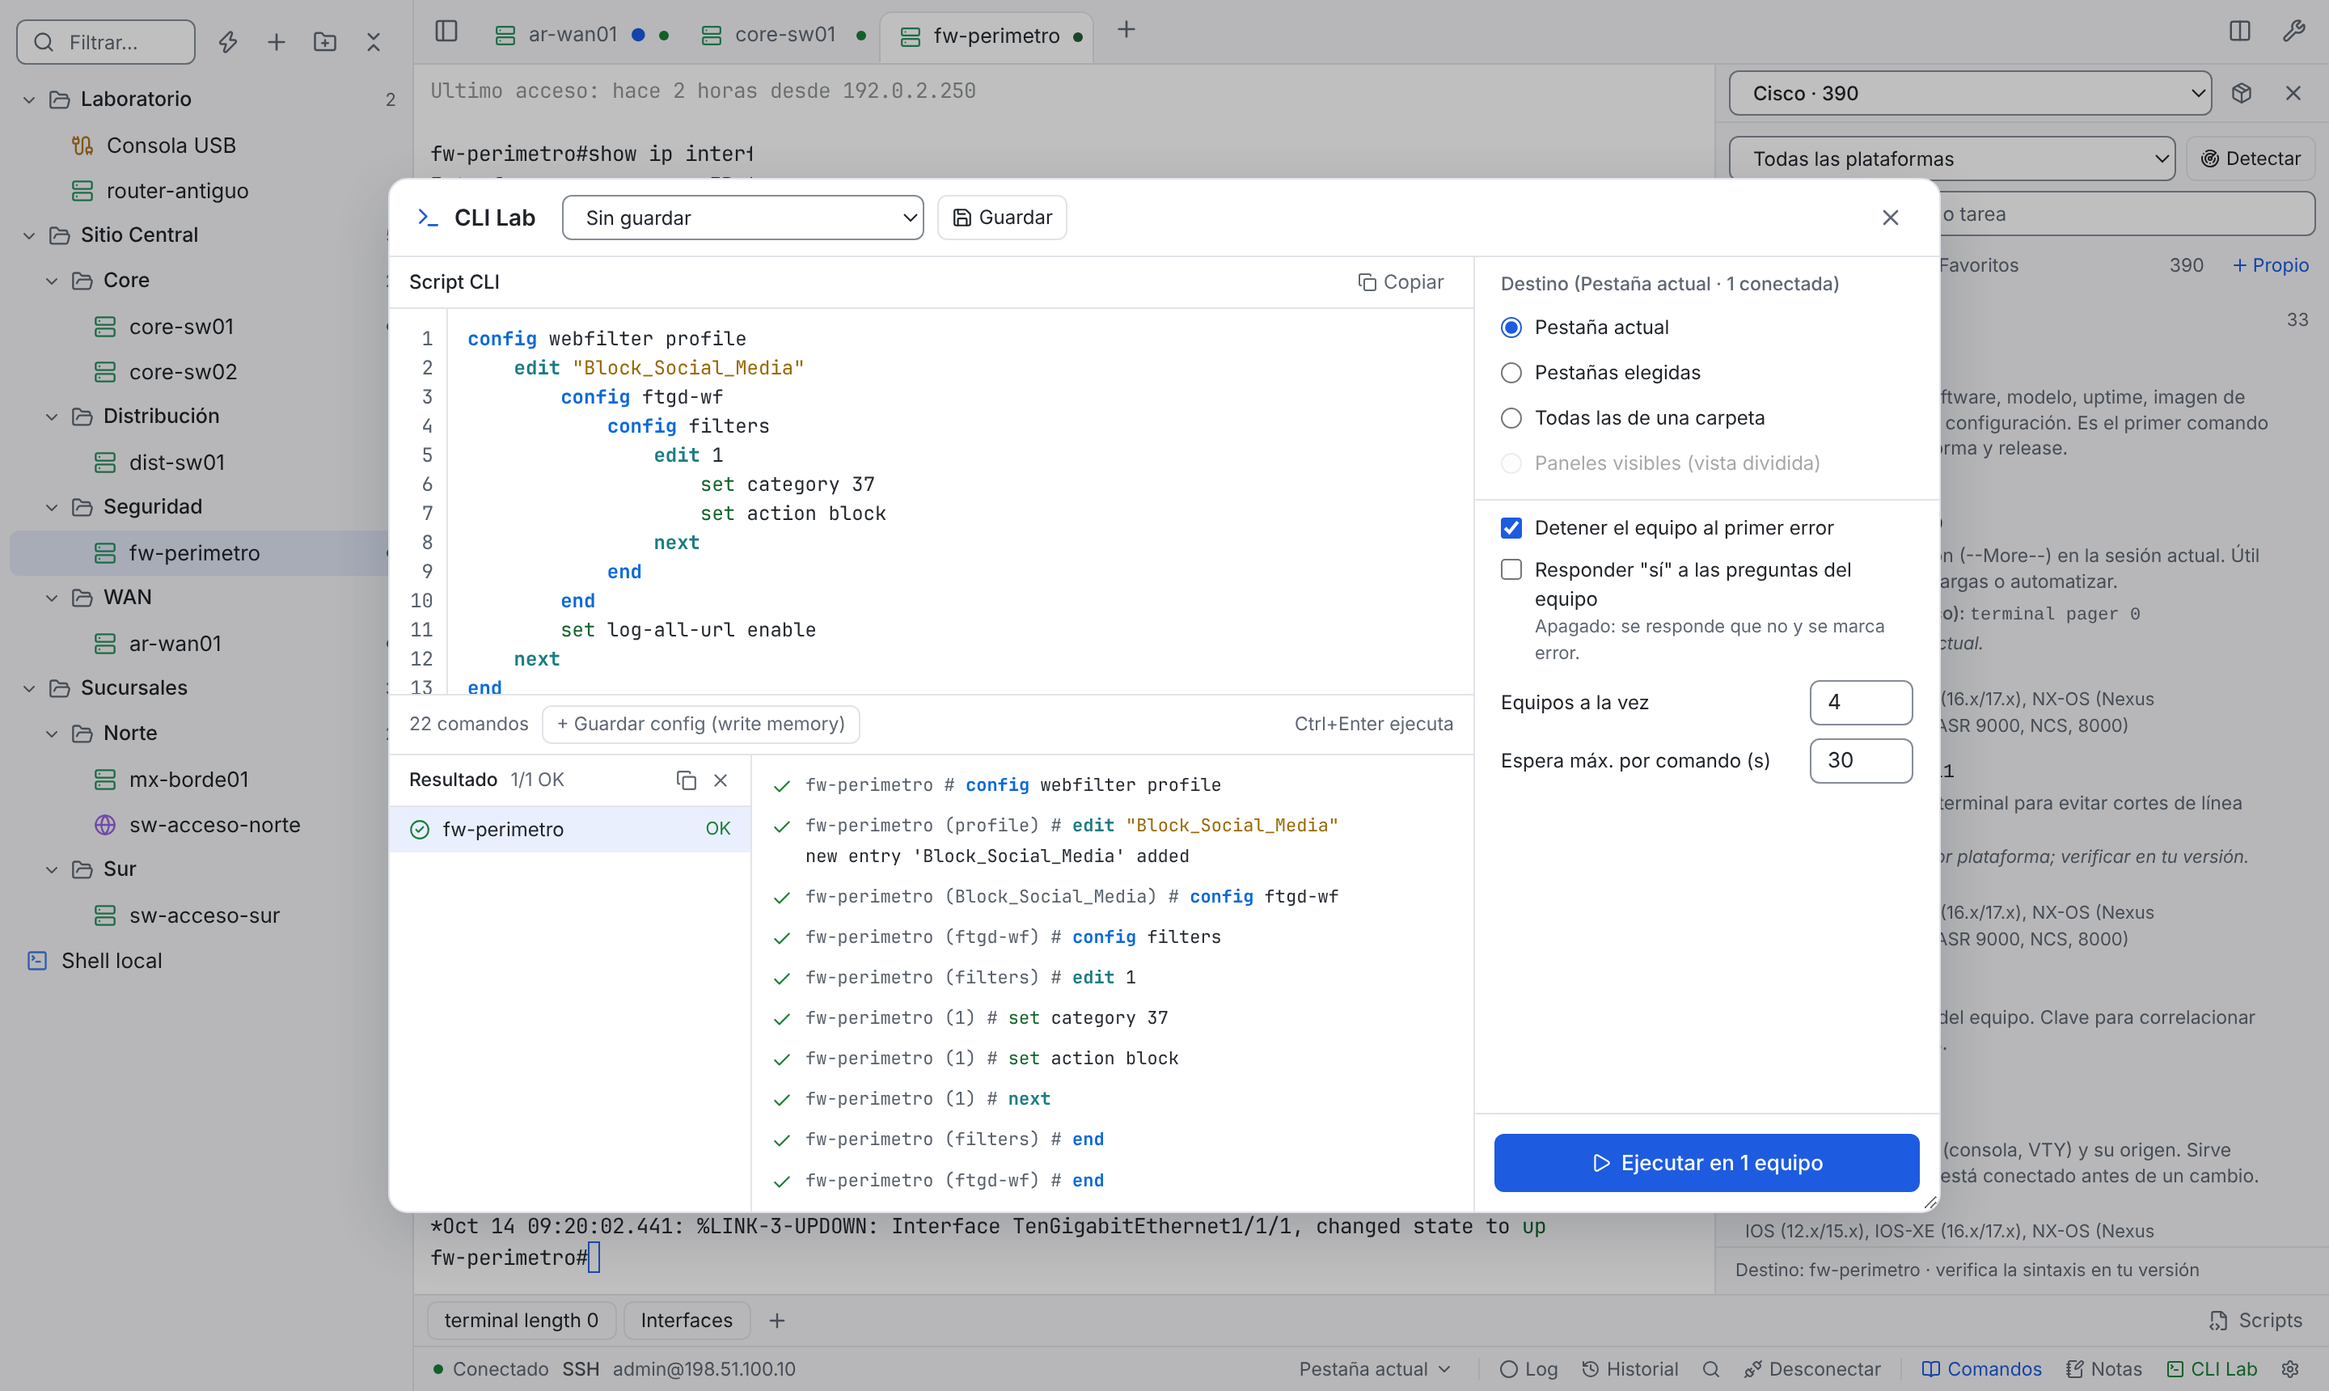
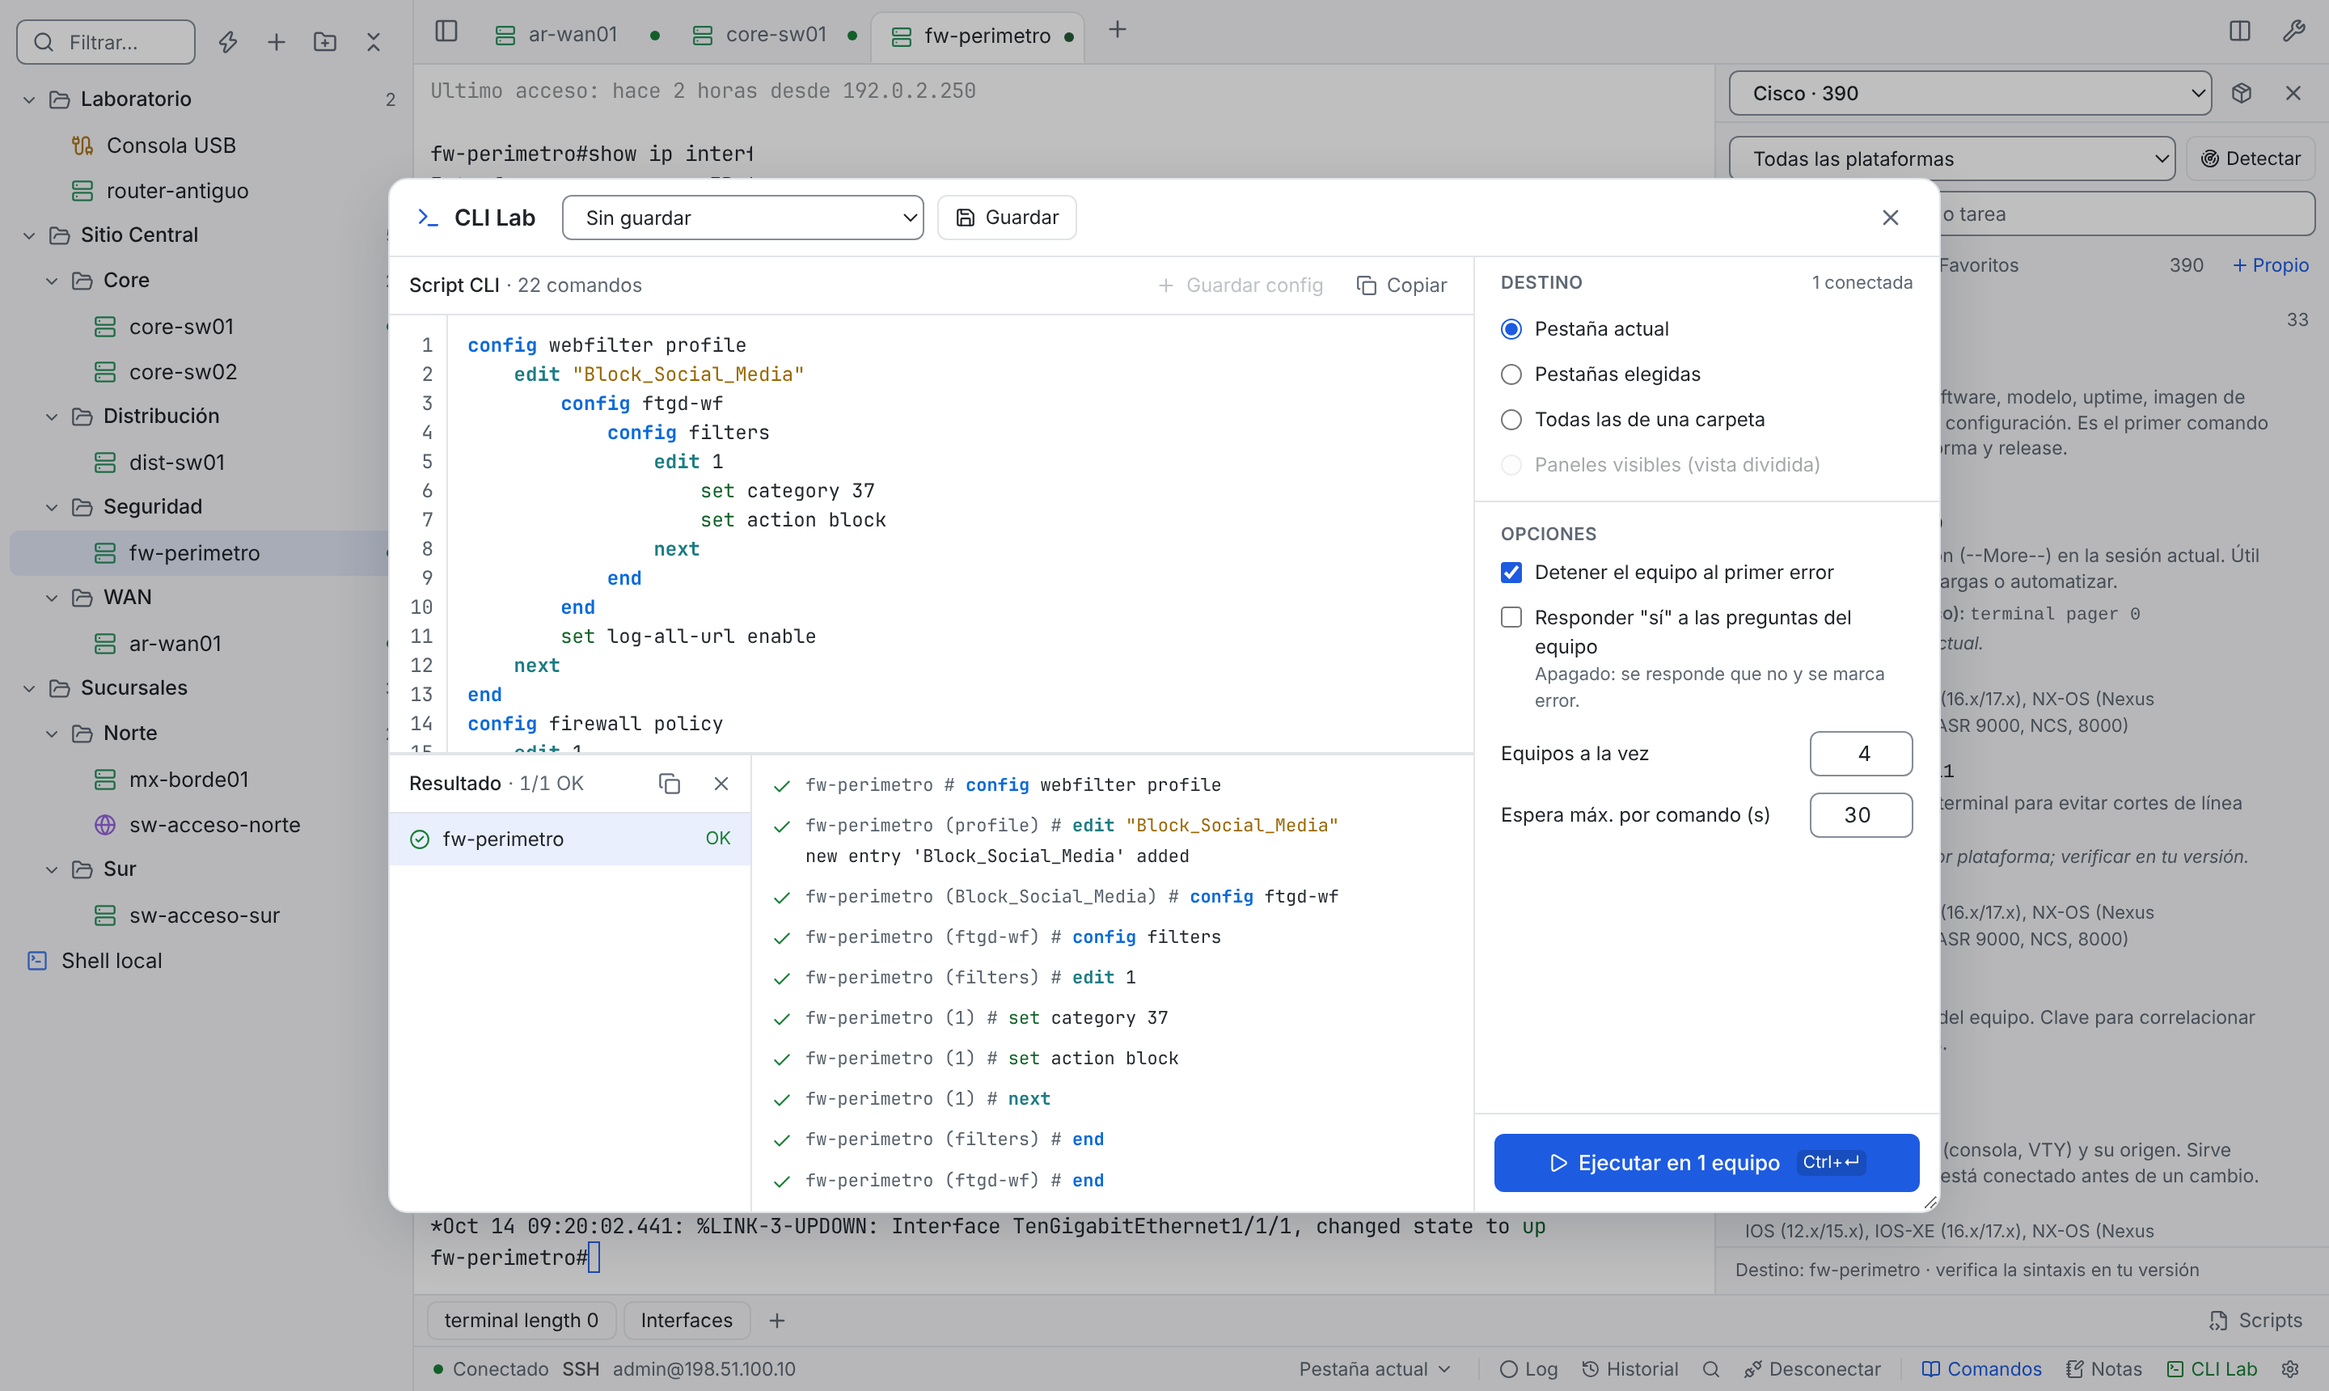
CLI Lab: botones y secciones según lineamientos de diseño
- Una sola acción principal (Ejecutar, con su atajo visible); Guardar como
  secundario con punto de cambios sin guardar; acciones del texto (Guardar
  config, Copiar) en la barra del editor como botones terciarios.
- Áreas de clic de 28 px o más (WCAG 2.2, 2.5.8), alturas uniformes y
  títulos de sección iguales: Variables, Destino y Opciones.
- Cantidad de comandos junto a "Script CLI" (sin la barra inferior), números
  alineados a la derecha y mensajes con aria-live.
- Foco del editor de Notas y CLI Lab como marco interior completo (antes se
  veía solo una franja recortada a la izquierda).

Claude-Session: https://claude.ai/code/session_01LZm5smYBDTDfaAPY2jGg55

diff --git a/src/components/CliLab.tsx b/src/components/CliLab.tsx
@@ -1,7 +1,7 @@
 import { useEffect, useMemo, useRef, useState } from "react";
 import type { ITheme } from "@xterm/xterm";
 import { writeText } from "@tauri-apps/plugin-clipboard-manager";
-import { Check, CircleAlert, CircleCheck, Copy, Play, Save, Square, Terminal, X } from "lucide-react";
+import { Check, CircleAlert, CircleCheck, Copy, Play, Plus, Save, Square, Terminal, X } from "lucide-react";
 import { invoke } from "@tauri-apps/api/core";
 import { CodeEditor, renderHighlighted } from "./CodeEditor";
 import { cssColor } from "../lib/highlight";
@@ -45,6 +45,18 @@ interface Props {
   connOf: (tabId: string) => string | undefined;
   onClose: () => void;
 }
+
+/**
+ * Jerarquía de botones (una sola acción principal por vista: Ejecutar). Todas las áreas de clic
+ * miden 28 px o más (WCAG 2.2, 2.5.8 pide 24 px).
+ */
+const BTN_SECONDARY =
+  "flex items-center gap-1.5 px-2.5 h-7 rounded-md border border-line text-[12px] hover:bg-hover disabled:opacity-40 disabled:hover:bg-transparent";
+const BTN_GHOST =
+  "flex items-center gap-1.5 px-2 h-7 rounded-md text-[12px] text-muted hover:text-fg hover:bg-hover disabled:opacity-40 disabled:hover:bg-transparent disabled:hover:text-muted";
+const BTN_ICON = "w-7 h-7 shrink-0 grid place-items-center rounded-md text-muted hover:text-fg hover:bg-hover";
+/** Título de sección: el mismo en el editor (Variables) y el panel derecho (Destino, Opciones). */
+const SECTION = "mb-1.5 text-[11px] font-semibold uppercase tracking-wide text-muted";
 
 const DRAFT = "cliLabDraft";
 const LAB_DEFAULTS = { stopOnError: true, answer: false, parallel: 4, timeout: 30 };
@@ -251,33 +263,51 @@ export function CliLab(p: Props) {
               onBlur={() => setNaming(null)}
             />
           ) : (
-          <button onClick={() => saveScript(false)} disabled={!text.trim() || (!!note && !dirty)} title={note ? `Guardar cambios en la nota "${note.name}"` : "Guardar como nota nueva"} className="flex items-center gap-1 px-2 h-7 rounded-md border border-line hover:bg-hover disabled:opacity-40 text-[12px]">
+          <button
+            onClick={() => saveScript(false)}
+            disabled={!text.trim() || (!!note && !dirty)}
+            title={note ? `Guardar cambios en la nota "${note.name}"${dirty ? " (hay cambios sin guardar)" : ""}` : "Guardar como nota nueva"}
+            className={BTN_SECONDARY}
+          >
             <Save size={13} /> Guardar
+            {/* Punto de cambios sin guardar: el estado se ve sin ocupar texto en el encabezado. */}
+            {note && dirty && <span aria-label="Cambios sin guardar" className="w-1.5 h-1.5 rounded-full bg-warn" />}
           </button>
           )}
           {note && (
-            <button onClick={() => saveScript(true)} className="px-2 h-7 rounded-md border border-line hover:bg-hover text-[12px]">
+            <button onClick={() => saveScript(true)} className={BTN_GHOST}>
               Guardar como…
             </button>
           )}
-          {note && dirty && <span className="text-[11px] text-muted">Cambios sin guardar</span>}
           <span className="flex-1" />
-          <button onClick={p.onClose} aria-label="Cerrar" className="w-7 h-7 grid place-items-center rounded-md text-muted hover:text-fg hover:bg-hover">
+          <button onClick={p.onClose} aria-label="Cerrar" title="Cerrar (Esc)" className={BTN_ICON}>
             <X size={16} />
           </button>
         </header>
 
         <div className="flex-1 min-h-0 flex">
           <section className="flex-1 min-w-0 flex flex-col">
-            <div className="shrink-0 flex items-center gap-2 px-3 h-8 border-b border-line text-[12px]">
+            {/* Barra del editor: acciones sobre el texto del script (la ejecución va en el panel derecho). */}
+            <div className="shrink-0 flex items-center gap-1 pl-3 pr-2 h-9 border-b border-line text-[12px]">
               <span className="font-medium">Script CLI</span>
+              <span className="text-muted">· {plural(lines.length, "comando", "comandos")}</span>
               <span className="flex-1" />
               <button
-                onClick={() => writeText(text).then(() => setMsg("Script copiado"))}
-                disabled={!text.trim()}
-                className="flex items-center gap-1 px-1.5 h-6 rounded text-muted hover:text-fg hover:bg-hover disabled:opacity-40"
+                disabled={!saveCmd}
+                title={
+                  saveCmd
+                    ? `Agrega "${saveCmd}" al final para guardar la configuración`
+                    : p.vendor === "fortinet"
+                      ? "FortiOS guarda la configuración al cerrar el bloque con end"
+                      : "Sin comando de guardado conocido para este fabricante"
+                }
+                onClick={() => saveCmd && setText((t) => `${t.replace(/\s+$/, "")}${t.trim() ? "\n" : ""}${saveCmd}\n`)}
+                className={BTN_GHOST}
               >
-                <Copy size={12} /> Copiar
+                <Plus size={13} /> Guardar config
+              </button>
+              <button onClick={() => writeText(text).then(() => setMsg("Script copiado"))} disabled={!text.trim()} title="Copiar el script" className={BTN_GHOST}>
+                <Copy size={13} /> Copiar
               </button>
             </div>
             <div className="flex-1 min-h-0 flex flex-col overflow-hidden border-b border-line">
@@ -298,30 +328,13 @@ export function CliLab(p: Props) {
                 }}
               />
             </div>
-            <div className="shrink-0 flex items-center gap-2 px-3 h-9 text-[11.5px] text-muted">
-              <span>{plural(lines.length, "comando", "comandos")}</span>
-              <button
-                disabled={!saveCmd}
-                title={
-                  saveCmd
-                    ? `Agrega "${saveCmd}" al final`
-                    : p.vendor === "fortinet"
-                      ? "FortiOS guarda la configuración al cerrar el bloque con end"
-                      : "Sin comando de guardado conocido para este fabricante"
-                }
-                onClick={() => saveCmd && setText((t) => `${t.replace(/\s+$/, "")}${t.trim() ? "\n" : ""}${saveCmd}\n`)}
-                className="px-2 h-6 rounded-md border border-line hover:bg-hover hover:text-fg disabled:opacity-40"
-              >
-                + Guardar config{saveCmd ? ` (${saveCmd})` : ""}
-              </button>
-              <span className="flex-1" />
-              <span>{`${isMac ? "⌘" : "Ctrl+"}Enter ejecuta`}</span>
-            </div>
             {vars.length > 0 && (
-              <div className="shrink-0 px-3 pb-2 grid gap-2" style={{ gridTemplateColumns: "repeat(auto-fill, minmax(180px, 1fr))" }}>
+              <div className="shrink-0 px-3 pt-2 pb-3 border-b border-line">
+              <h3 className={SECTION}>Variables</h3>
+              <div className="grid gap-2" style={{ gridTemplateColumns: "repeat(auto-fill, minmax(180px, 1fr))" }}>
                 {vars.map((v) => (
                   <label key={v} className="block text-[11.5px]">
-                    <span className="block mb-0.5 font-medium text-muted">{`{{${v}}}`}</span>
+                    <span className="block mb-1 font-mono text-muted">{`{{${v}}}`}</span>
                     <input
                       className="field !h-7 !text-[12px]"
                       type={isSecretVar(v) ? "password" : "text"}
@@ -332,29 +345,30 @@ export function CliLab(p: Props) {
                   </label>
                 ))}
               </div>
+              </div>
             )}
             {run && (
               <section className="shrink-0 h-[48%] min-h-[150px] border-t border-line flex min-w-0">
                 <div className="w-56 shrink-0 border-r border-line flex flex-col">
-                  <div className="flex items-center gap-2 px-3 h-8 text-[11.5px] border-b border-line">
+                  <div className="flex items-center gap-1 pl-3 pr-1 h-9 text-[12px] border-b border-line">
                     <span className="font-medium">{running ? "Ejecutando…" : "Resultado"}</span>
-                    <span className="text-muted">
-                      {run.items.filter((i) => i.status === "ok").length}/{run.items.length} OK
+                    <span className="text-muted tabular-nums">
+                      · {run.items.filter((i) => i.status === "ok").length}/{run.items.length} OK
                     </span>
                     <span className="flex-1" />
-                    <button title="Copiar informe" className="text-muted hover:text-fg" onClick={() => writeText(labReport(run)).then(() => setMsg("Informe copiado"))}>
-                      <Copy size={13} />
+                    <button aria-label="Copiar informe" title="Copiar informe" className={BTN_ICON} onClick={() => writeText(labReport(run)).then(() => setMsg("Informe copiado"))}>
+                      <Copy size={14} />
                     </button>
                     {!running && (
-                      <button title="Cerrar resultado" className="text-muted hover:text-fg" onClick={clearLab}>
-                        <X size={13} />
+                      <button aria-label="Cerrar resultado" title="Cerrar resultado" className={BTN_ICON} onClick={clearLab}>
+                        <X size={14} />
                       </button>
                     )}
                   </div>
                   <ul className="flex-1 overflow-y-auto text-[12px]">
                     {run.items.map((i) => (
                       <li key={i.tabId}>
-                        <button onClick={() => setView(i.tabId)} className={`w-full flex items-center gap-2 px-3 h-7 text-left hover:bg-hover ${shown?.tabId === i.tabId ? "bg-selected" : ""}`}>
+                        <button onClick={() => setView(i.tabId)} className={`w-full flex items-center gap-2 px-3 h-8 text-left hover:bg-hover ${shown?.tabId === i.tabId ? "bg-selected" : ""}`}>
                           <StatusIcon item={i} />
                           <span className="truncate flex-1">{i.name}</span>
                           <span className={`text-[11px] tabular-nums ${statusColor[i.status]}`}>
@@ -413,10 +427,14 @@ export function CliLab(p: Props) {
             {/* Opciones con scroll propio: el botón Ejecutar/Detener queda siempre visible abajo. */}
             <div className="flex-1 min-h-0 overflow-y-auto">
             <div className="p-2">
-              <h3 className="px-2 pb-1 text-[11.5px] font-medium text-muted">Destino ({targetLabel(target, ws)} · {plural(n, "conectada", "conectadas")})</h3>
+              <h3 className={`${SECTION} px-2 flex items-center gap-2`} title={targetLabel(target, ws)}>
+                Destino
+                <span className="ml-auto normal-case tracking-normal font-normal">{plural(n, "conectada", "conectadas")}</span>
+              </h3>
               <TargetOptions />
             </div>
-            <div className="px-4 py-2 space-y-2 border-t border-line text-[12px]">
+            <div className="px-4 py-3 space-y-2.5 border-t border-line text-[12px]">
+              <h3 className={SECTION}>Opciones</h3>
               <label className="flex items-center gap-2">
                 <input type="checkbox" className="accent-[var(--accent)]" checked={opts.stopOnError} onChange={(e) => setOpts((o) => ({ ...o, stopOnError: e.target.checked }))} />
                 Detener el equipo al primer error
@@ -430,16 +448,18 @@ export function CliLab(p: Props) {
               </label>
               <label className="flex items-center justify-between gap-2">
                 Equipos a la vez
-                <input type="number" min={1} max={10} className="field !h-7 !w-16" value={opts.parallel} onChange={(e) => setOpts((o) => ({ ...o, parallel: Math.max(1, Math.min(10, Number(e.target.value) || 1)) }))} />
+                <input type="number" min={1} max={10} className="field !h-7 !w-16 text-right tabular-nums" value={opts.parallel} onChange={(e) => setOpts((o) => ({ ...o, parallel: Math.max(1, Math.min(10, Number(e.target.value) || 1)) }))} />
               </label>
               <label className="flex items-center justify-between gap-2" title="Si el equipo no vuelve al prompt en este plazo, la línea queda en error">
                 Espera máx. por comando (s)
-                <input type="number" min={5} max={600} className="field !h-7 !w-16" value={opts.timeout} onChange={(e) => setOpts((o) => ({ ...o, timeout: Number(e.target.value) || 30 }))} />
+                <input type="number" min={5} max={600} className="field !h-7 !w-16 text-right tabular-nums" value={opts.timeout} onChange={(e) => setOpts((o) => ({ ...o, timeout: Number(e.target.value) || 30 }))} />
               </label>
             </div>
             </div>
             <div className="shrink-0 p-3 border-t border-line space-y-2">
-              {msg && <p className="text-[11.5px] text-warn">{msg}</p>}
+              <p role="status" aria-live="polite" className={`text-[11.5px] text-warn ${msg ? "" : "hidden"}`}>
+                {msg}
+              </p>
               {running ? (
                 <button onClick={stopLab} className="w-full flex items-center justify-center gap-1.5 h-9 rounded-md bg-danger text-danger-fg font-medium hover:opacity-90">
                   <Square size={11} fill="currentColor" /> Detener
@@ -452,6 +472,7 @@ export function CliLab(p: Props) {
                   className="w-full flex items-center justify-center gap-1.5 h-9 rounded-md bg-accent text-accent-fg font-medium hover:opacity-90 disabled:opacity-40"
                 >
                   <Play size={13} /> Ejecutar en {plural(n, "equipo", "equipos")}
+                  <kbd className="ml-1 px-1 rounded bg-black/15 font-sans text-[10.5px] font-normal">{isMac ? "⌘↵" : "Ctrl+↵"}</kbd>
                 </button>
               )}
             </div>

diff --git a/src/App.css b/src/App.css
@@ -167,6 +167,13 @@ button {
 }
 
 /* El texto del editor es transparente (se ve la capa resaltada); el placeholder no. */
+/* Editor de Notas y CLI Lab: el anillo de foco va por dentro (por fuera quedaba recortado y solo se
+   veía una franja en el borde izquierdo). */
+.code-editor:focus-visible {
+  outline: 2px solid var(--accent);
+  outline-offset: -2px;
+}
+
 .code-editor::placeholder {
   -webkit-text-fill-color: var(--muted);
   color: var(--muted);
